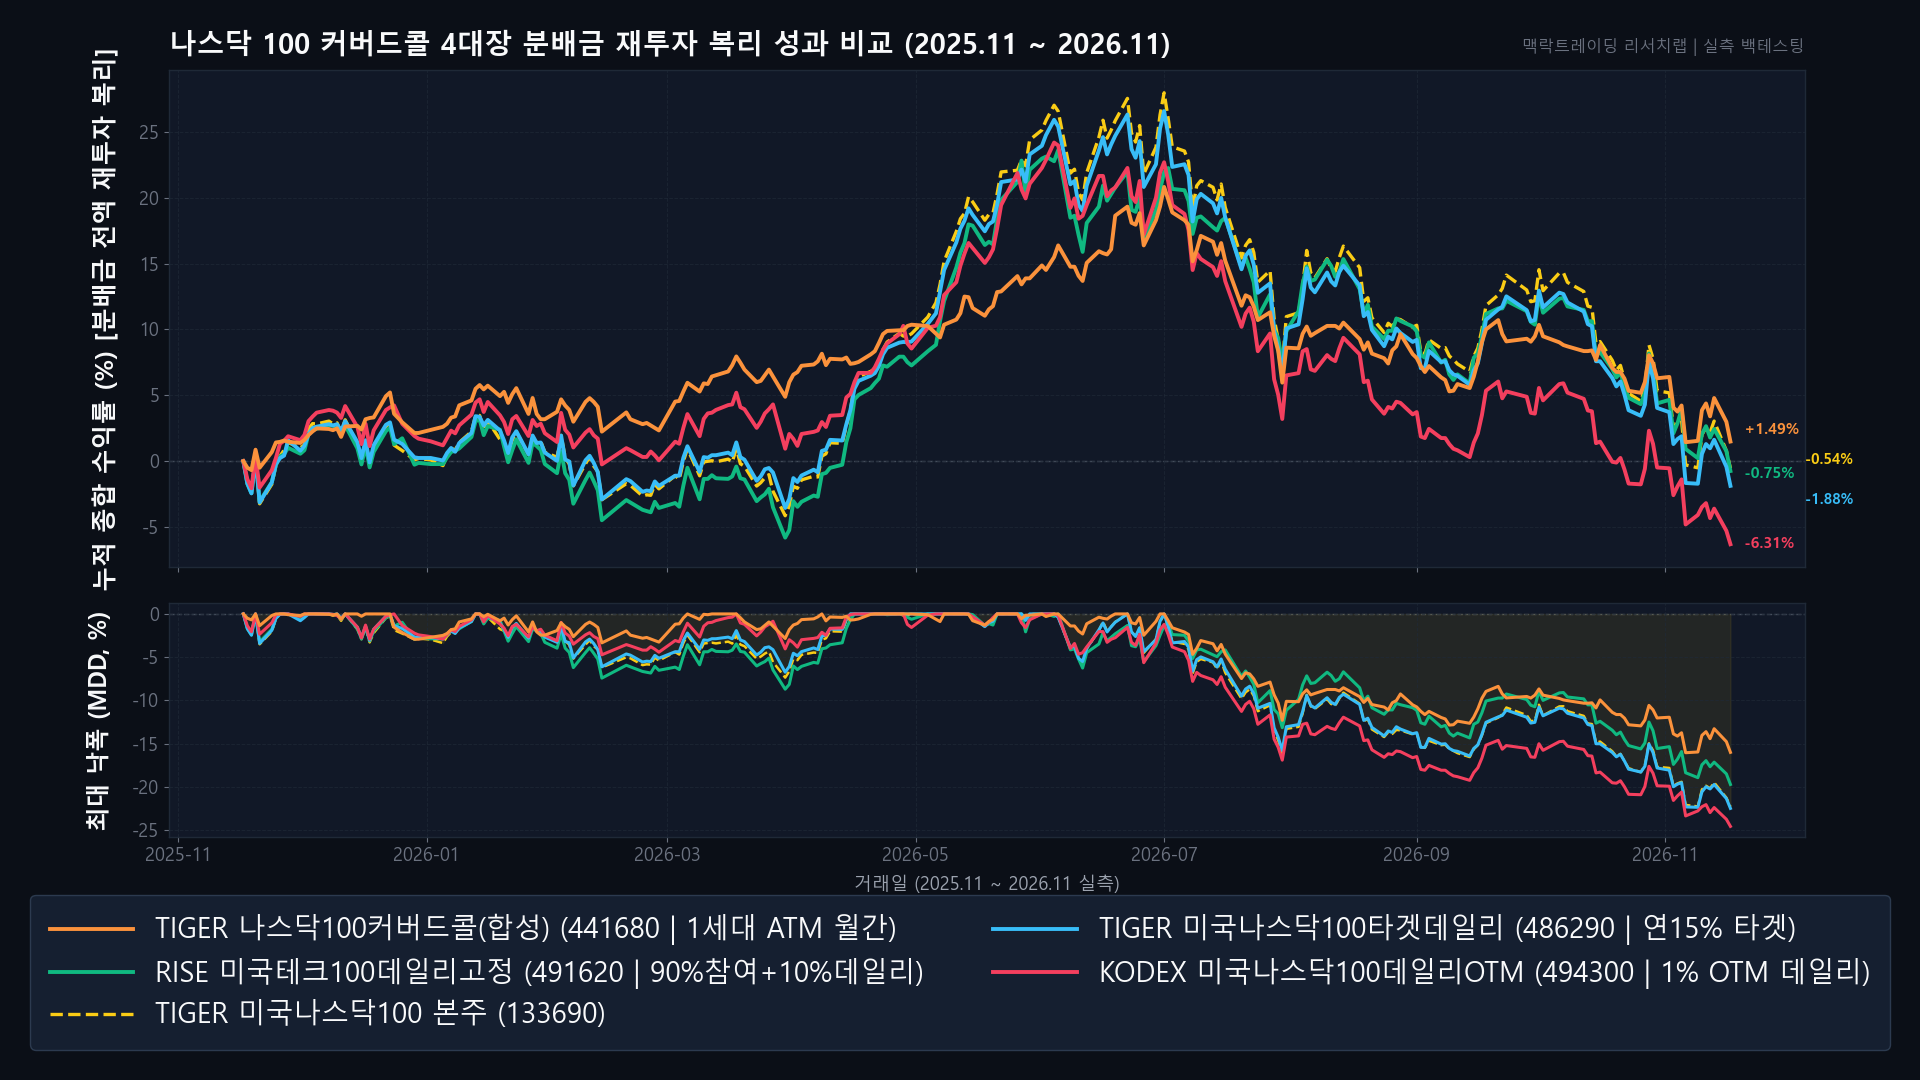
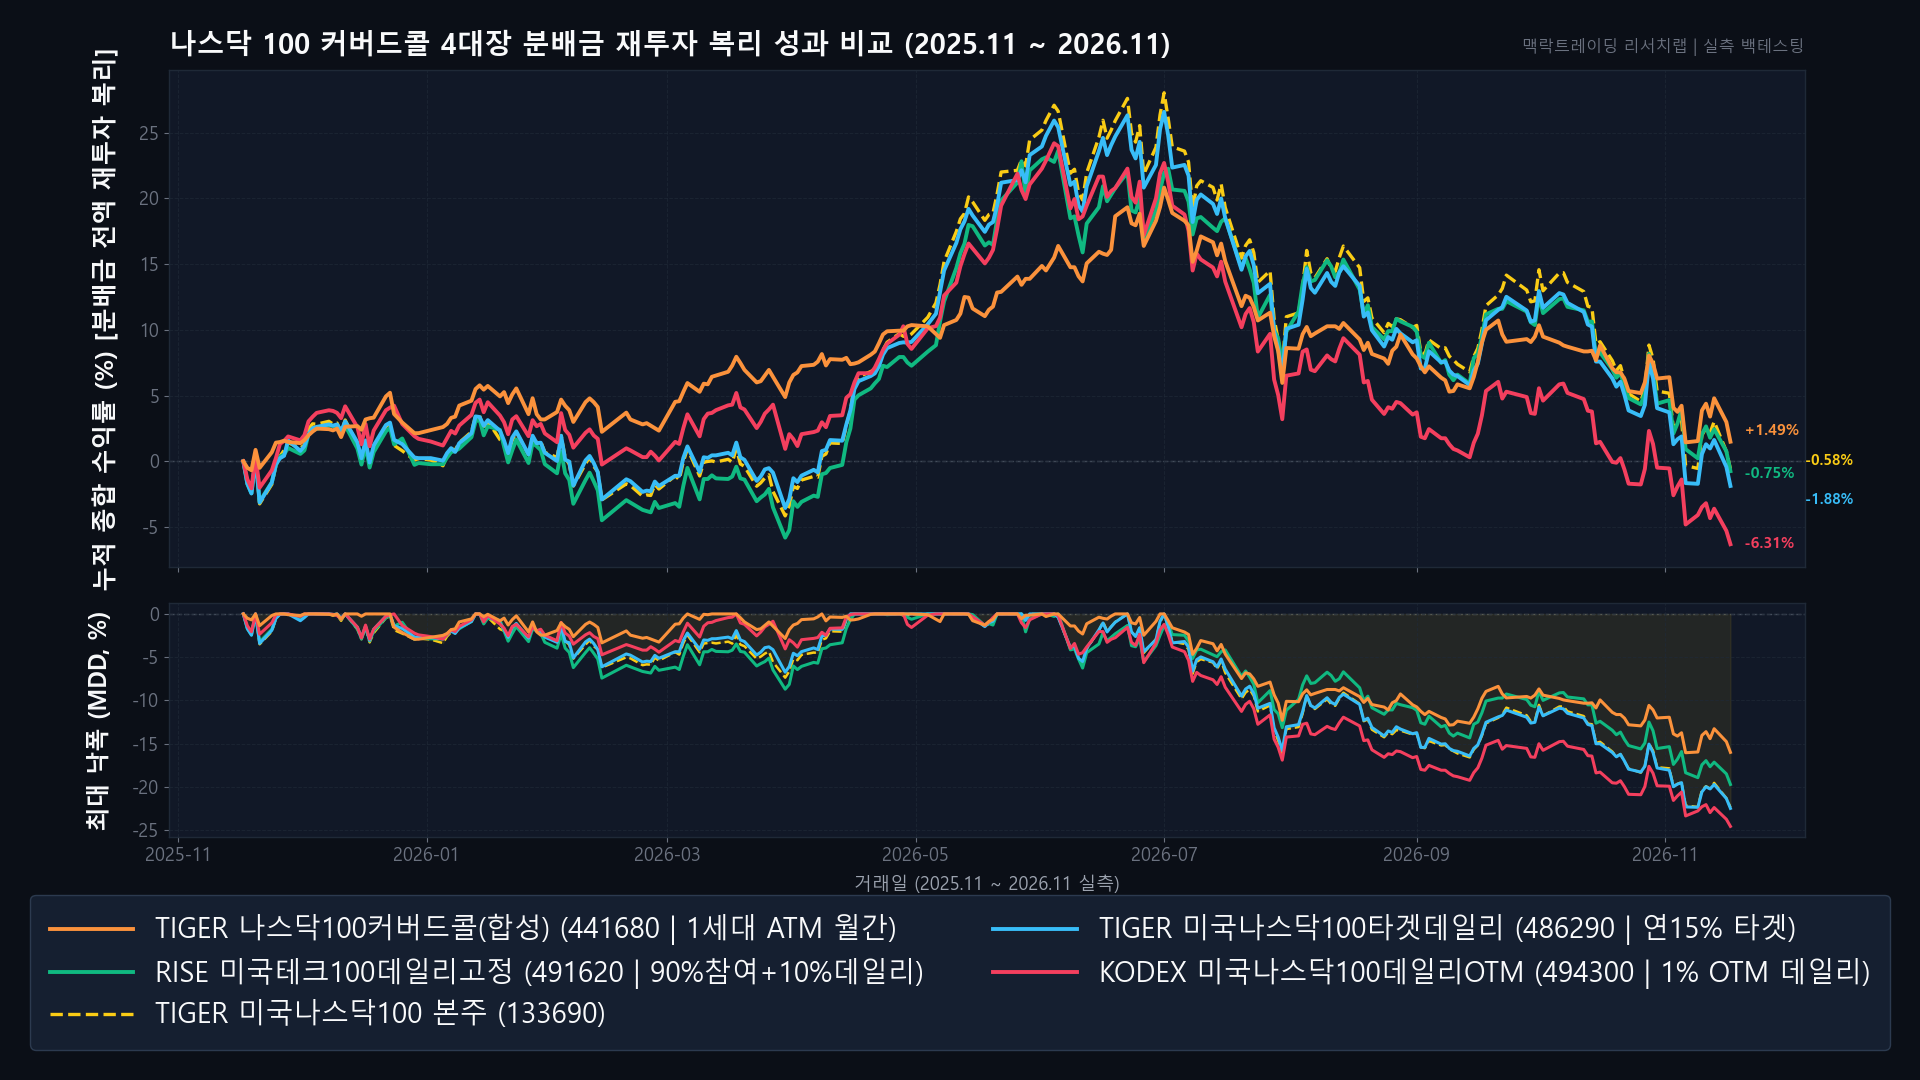
fix(reinvest): apply underlying benchmark dividend reinvestment (TR) calculation to chart and table

diff --git a/_posts/2026-11-18-group01-nasdaq100-covered-call-comparison.md b/_posts/2026-11-18-group01-nasdaq100-covered-call-comparison.md
@@ -72,7 +72,7 @@ excerpt: '국내 상장 나스닥 100 초고배당 커버드콜 4종의 1년 실
 | **RISE 미국테크100데일리고정 (491620)** | 10,000,000원 | 9,924,858원 | **-0.75%** | -0.75% | -19.72% | -0.10 | -1.37%p |
 | **TIGER 미국나스닥100타겟데일리 (486290)** | 10,000,000원 | 9,812,176원 | **-1.88%** | -1.88% | -22.49% | -0.16 | -1.21%p |
 | **KODEX 미국나스닥100데일리OTM (494300)** | 10,000,000원 | 9,368,569원 | **-6.31%** | -6.32% | -24.57% | -0.45 | **-2.20%p** |
-| <strong style="color: #F59E0B;">비교 대상 본주 (TIGER 미국나스닥100, 133690)</strong> | 10,000,000원 | 9,945,607원 | **-0.54%** | -0.54% | -22.29% | -0.08 | 0.00%p |
+| <strong style="color: #F59E0B;">비교 대상 본주 (TIGER 미국나스닥100, 133690)</strong> | 10,000,000원 | 9,941,789원 | **-0.58%** | -0.58% | -22.36% | -0.09 | -0.04%p |
 
 ---
 
@@ -107,9 +107,11 @@ RISE 미국테크100데일리고정커버드콜은 자산의 90%를 나스닥 10
 이러한 언더퍼폼의 원인은 나스닥 100 지수의 일간 급등락 특성과 1% 고정 OTM의 비대칭 구조에서 비롯됩니다. 미국 기술주 시장에서는 CPI 지표나 빅테크 실적 발표 당일 지수가 하루에 +2%~+3% 이상 단기 폭등하는 날이 자주 발생합니다. 이 경우 1%를 초과하는 일간 상승분이 모두 잘려나가 상방 회복이 제한됩니다. 반대로 지수가 -2%~-3% 급락하는 날에는 하락폭을 100% 그대로 반영하기 때문에, 계단식 주가 침식이 누적되어 배당금을 합산하더라도 총자산이 깎여나가는 결과를 낳았습니다.
 
 ### ⑤ 단순 보유 vs 분배금 재투자: 왜 재투자가 오히려 성과를 갉아먹었는가? (역복리 드래그 현상)
-이번 백테스팅의 가장 중요한 학술적 발견은 **모든 커버드콜 종목에서 분배금을 재투자했을 때의 성과가 단순 현금 보유보다 0.66%p ~ 2.20%p 더 낮아졌다**는 점입니다.
+공정한 1:1 비교를 위해 비교 기준인 본주(TIGER 미국나스닥100) 역시 분기별로 지급된 4회의 분배금(총 57,466원)을 해당 지급일 종가로 전액 본주 주식에 재투자한 TR(Total Return) 시계열로 계산하였습니다.
 
-일반적인 주식이나 성장형 ETF에서는 배당금을 재투자할 때 '복리(Compounding)의 마법'이 발생하여 총자산이 비약적으로 증가합니다. 하지만 지난 1년처럼 지수가 횡보(-0.54%)하거나 진폭을 겪는 국면에서 초고배당 커버드콜을 재투자하면 정반대의 **'역복리 드래그(Reverse Compounding Drag)'**가 작동합니다:
+이번 백테스팅의 가장 중요한 학술적 발견은 **모든 종목에서 분배금을 재투자했을 때의 최종 성과가 단순 현금 보유보다 0.04%p ~ 2.20%p 더 낮아졌다**는 점입니다. 본주 역시 재투자 시 최종 총자산이 9,945,607원에서 9,941,789원으로 소폭 감소하여 수익률이 -0.54%에서 -0.58%로 낮아졌습니다(-0.04%p 격차). 하반기 나스닥 지수가 고점 대비 조정을 받으면서 재투자된 주식 수량에도 추가 하락이 반영되었기 때문입니다. 하지만 본주는 연 배당수익률이 0.57%에 불과하여 재투자 영향이 미미했던 반면, 연 15~19%에 달하는 초고배당 커버드콜들은 -1.2%p ~ -2.2%p에 달하는 심각한 역복리 드래그를 겪었습니다.
+
+일반적인 주식이나 성장형 ETF에서는 배당금을 재투자할 때 '복리(Compounding)의 마법'이 발생하여 장기 총자산이 비약적으로 증가합니다. 하지만 지난 1년처럼 지수가 횡보(-0.58%)하거나 진폭을 겪는 국면에서 초고배당 커버드콜을 재투자하면 정반대의 **'역복리 드래그(Reverse Compounding Drag)'**가 작동합니다:
 
 1. **배당락 침식 주식의 지속 매수**: 커버드콜 주가는 매월 고배당(연 12~19%) 지급으로 인해 필연적으로 순자산가치(NAV)가 계단식으로 낮아집니다. 분배금을 재투자한다는 것은 이처럼 주가가 우하향 곡선을 그리는 자산을 지속해서 추가 매수(물타기)하는 행위가 됩니다.
 2. **현금의 변동성 완충 기능 소멸**: 단순 보유 시에는 수령한 분배금이 '현금(변동성 0%)'으로 확정되어 계좌 전체의 하락을 방어해 주는 쿠션 역할을 했습니다. 그러나 재투자를 하는 순간 이 안전 자산이 다시 위험 자산(주식)으로 전환되어 시장 하락 파동과 추가 배당락에 고스란히 노출되었습니다.
